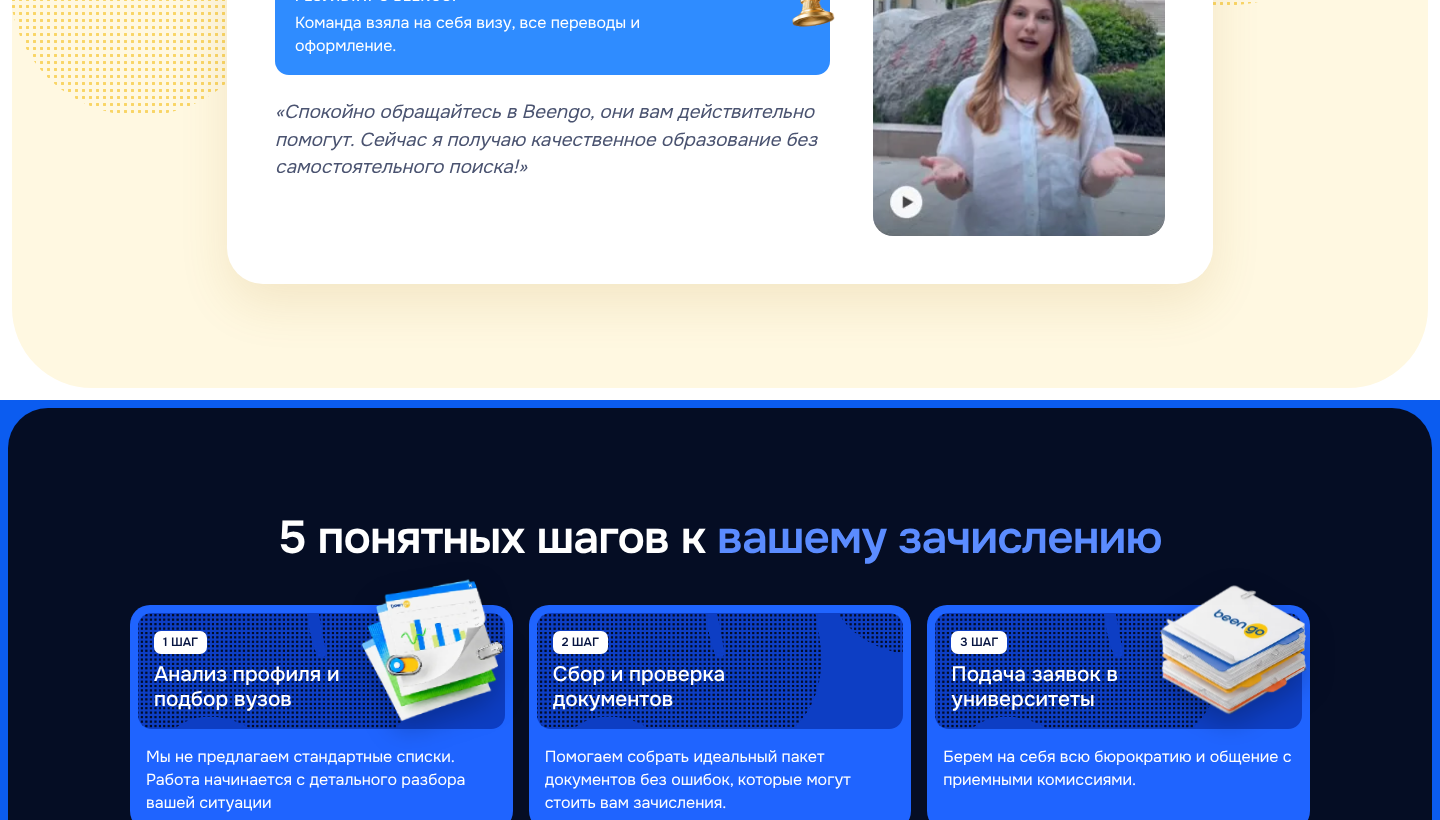
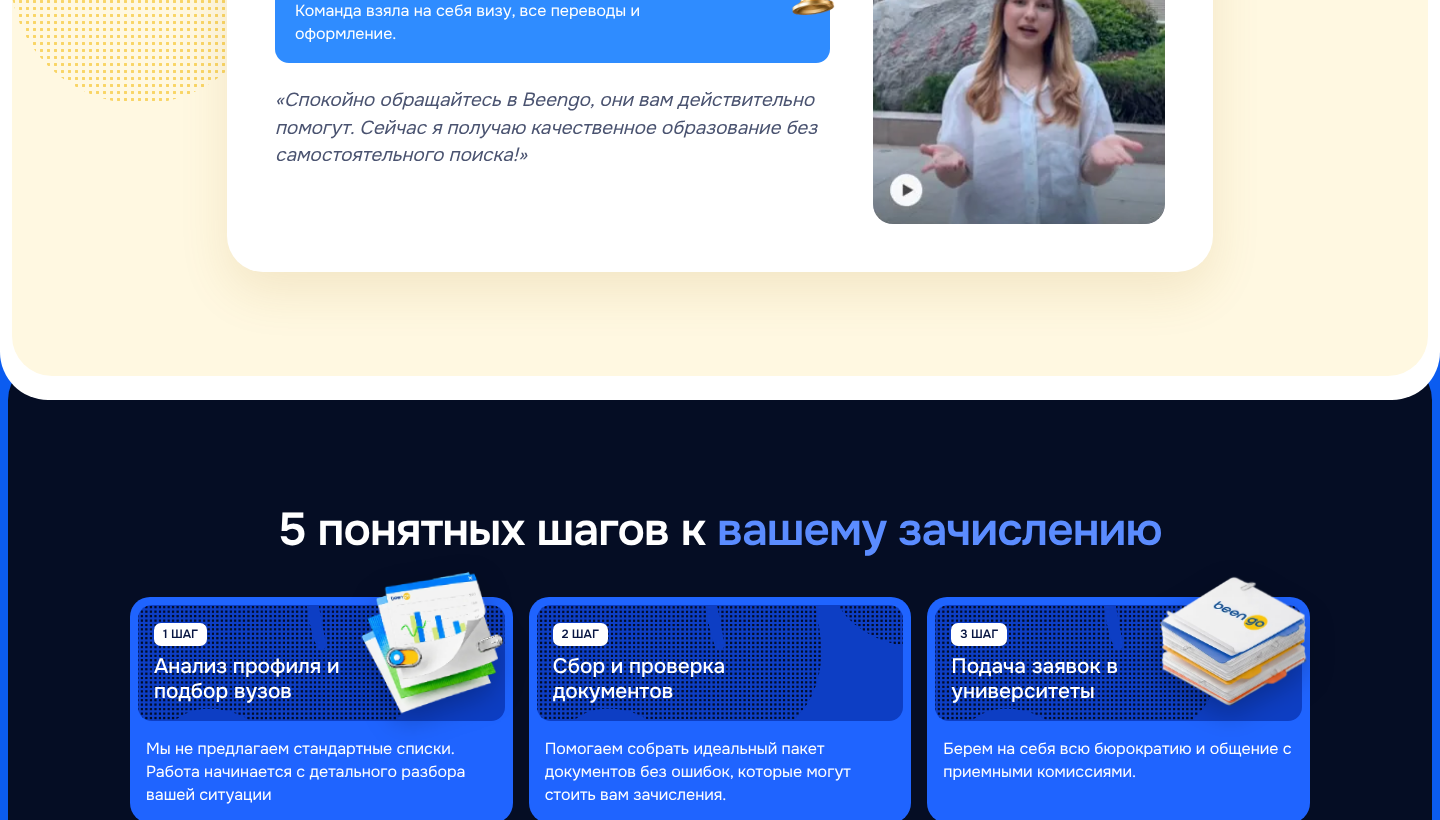
Stories section rounds at bottom and overlaps process block
Claude-Session: https://claude.ai/code/session_01DveQThDXrjAqWsCdBVYsEN

diff --git a/index.html b/index.html
@@ -1523,8 +1523,11 @@ h1,h2,.h2,.why .h2,.pains .h2,.checklist .h2{font-weight:600!important}
 /* шаги: заголовок по центру */
 .process-wrap .h2{text-align:center;margin-inline:auto;max-width:900px}
 /* истории: низ фрейма сильнее скруглён */
-.frame.stories{border-radius:40px 40px 80px 80px}
-@media (max-width:680px){.frame.stories{border-radius:28px 28px 48px 48px}}
+/* фон «Историй» скругляется снизу, «Шаги» заходят под него */
+#stories.sec{position:relative;z-index:2;border-radius:0 0 48px 48px;padding-bottom:24px}
+#process.sec{position:relative;z-index:1;margin-top:-48px;padding-top:8px}
+#process .frame.process{padding-top:calc(var(--section) + 40px)}
+@media (max-width:680px){#stories.sec{border-radius:0 0 32px 32px;padding-bottom:12px}#process.sec{margin-top:-32px;padding-top:6px}#process .frame.process{padding-top:88px}}
 </style>
 </head>
 <body>
